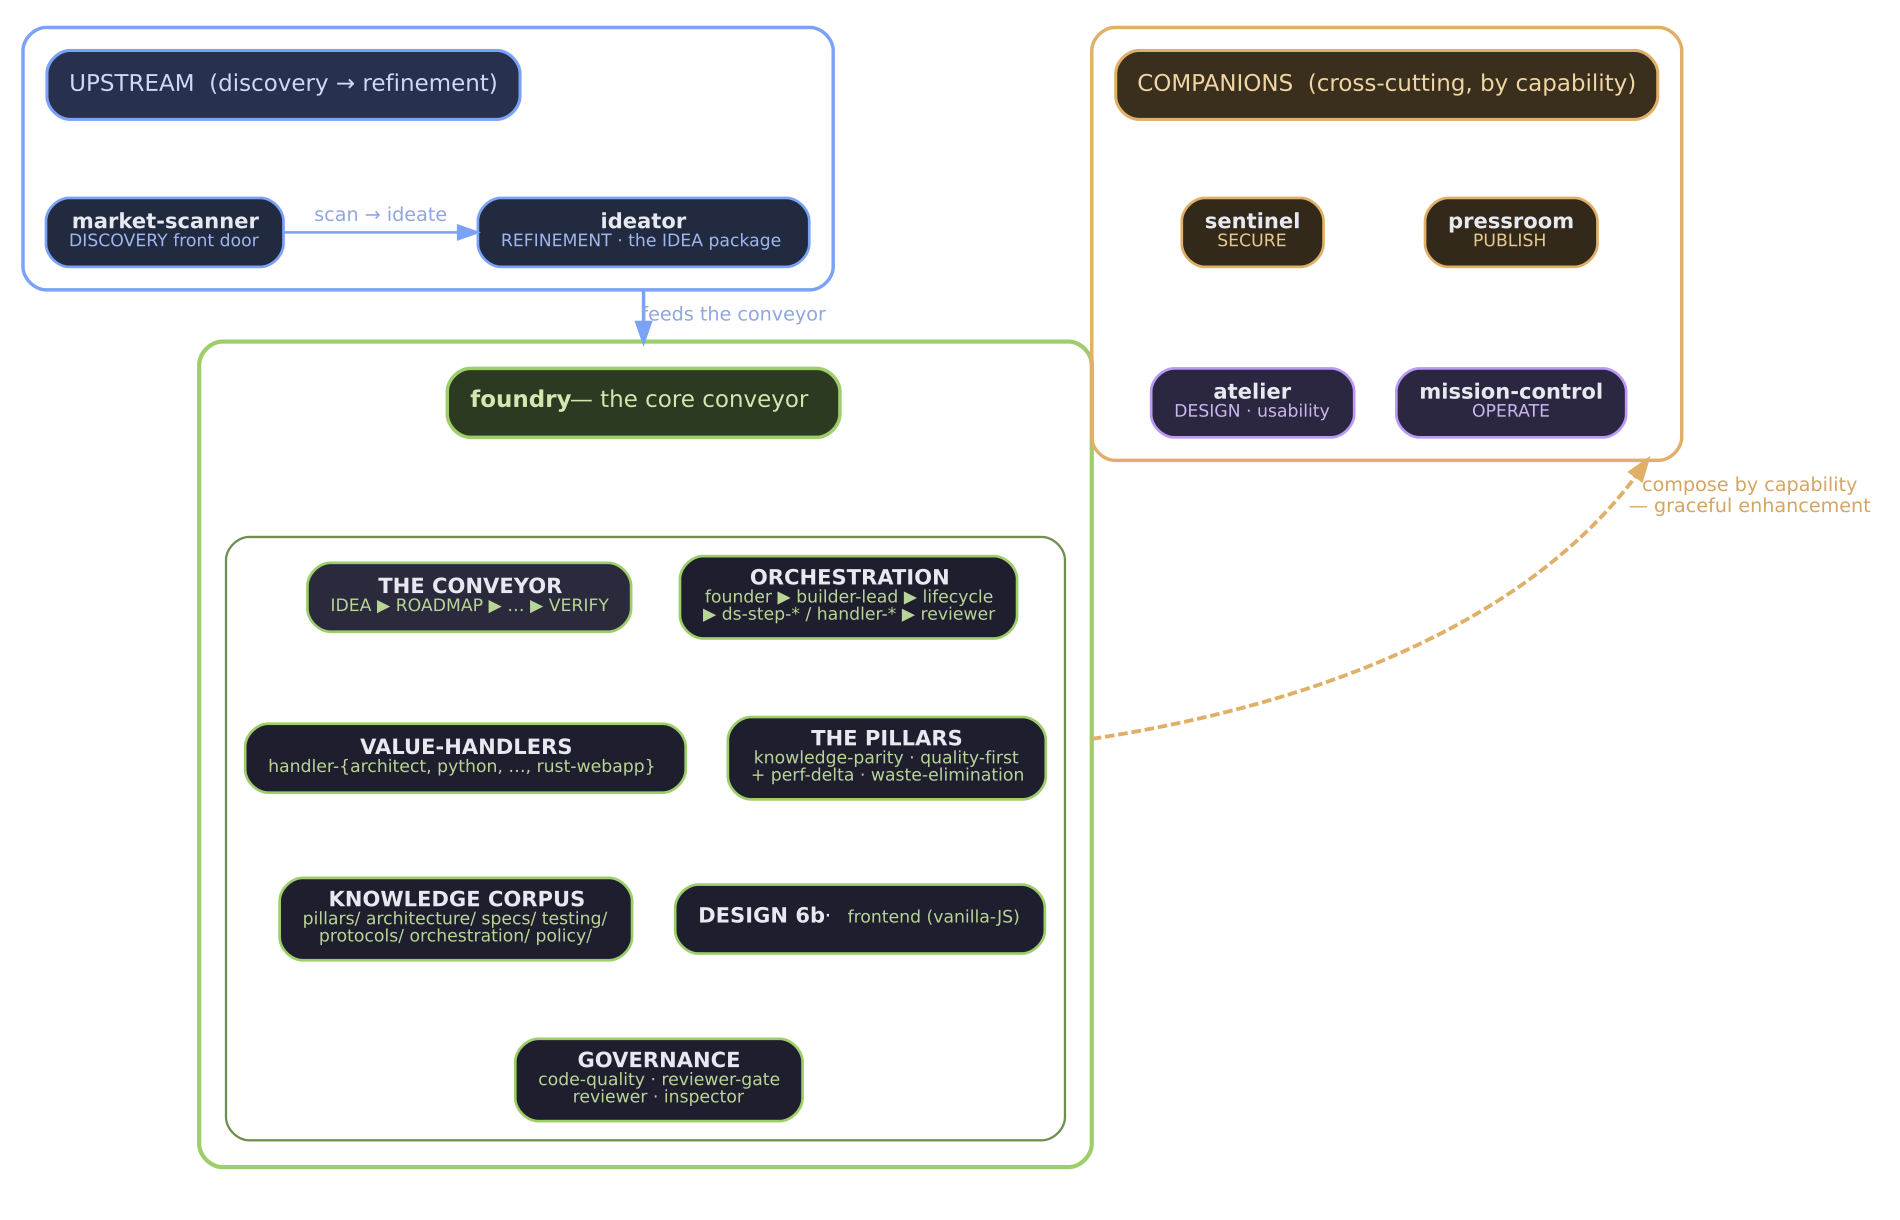
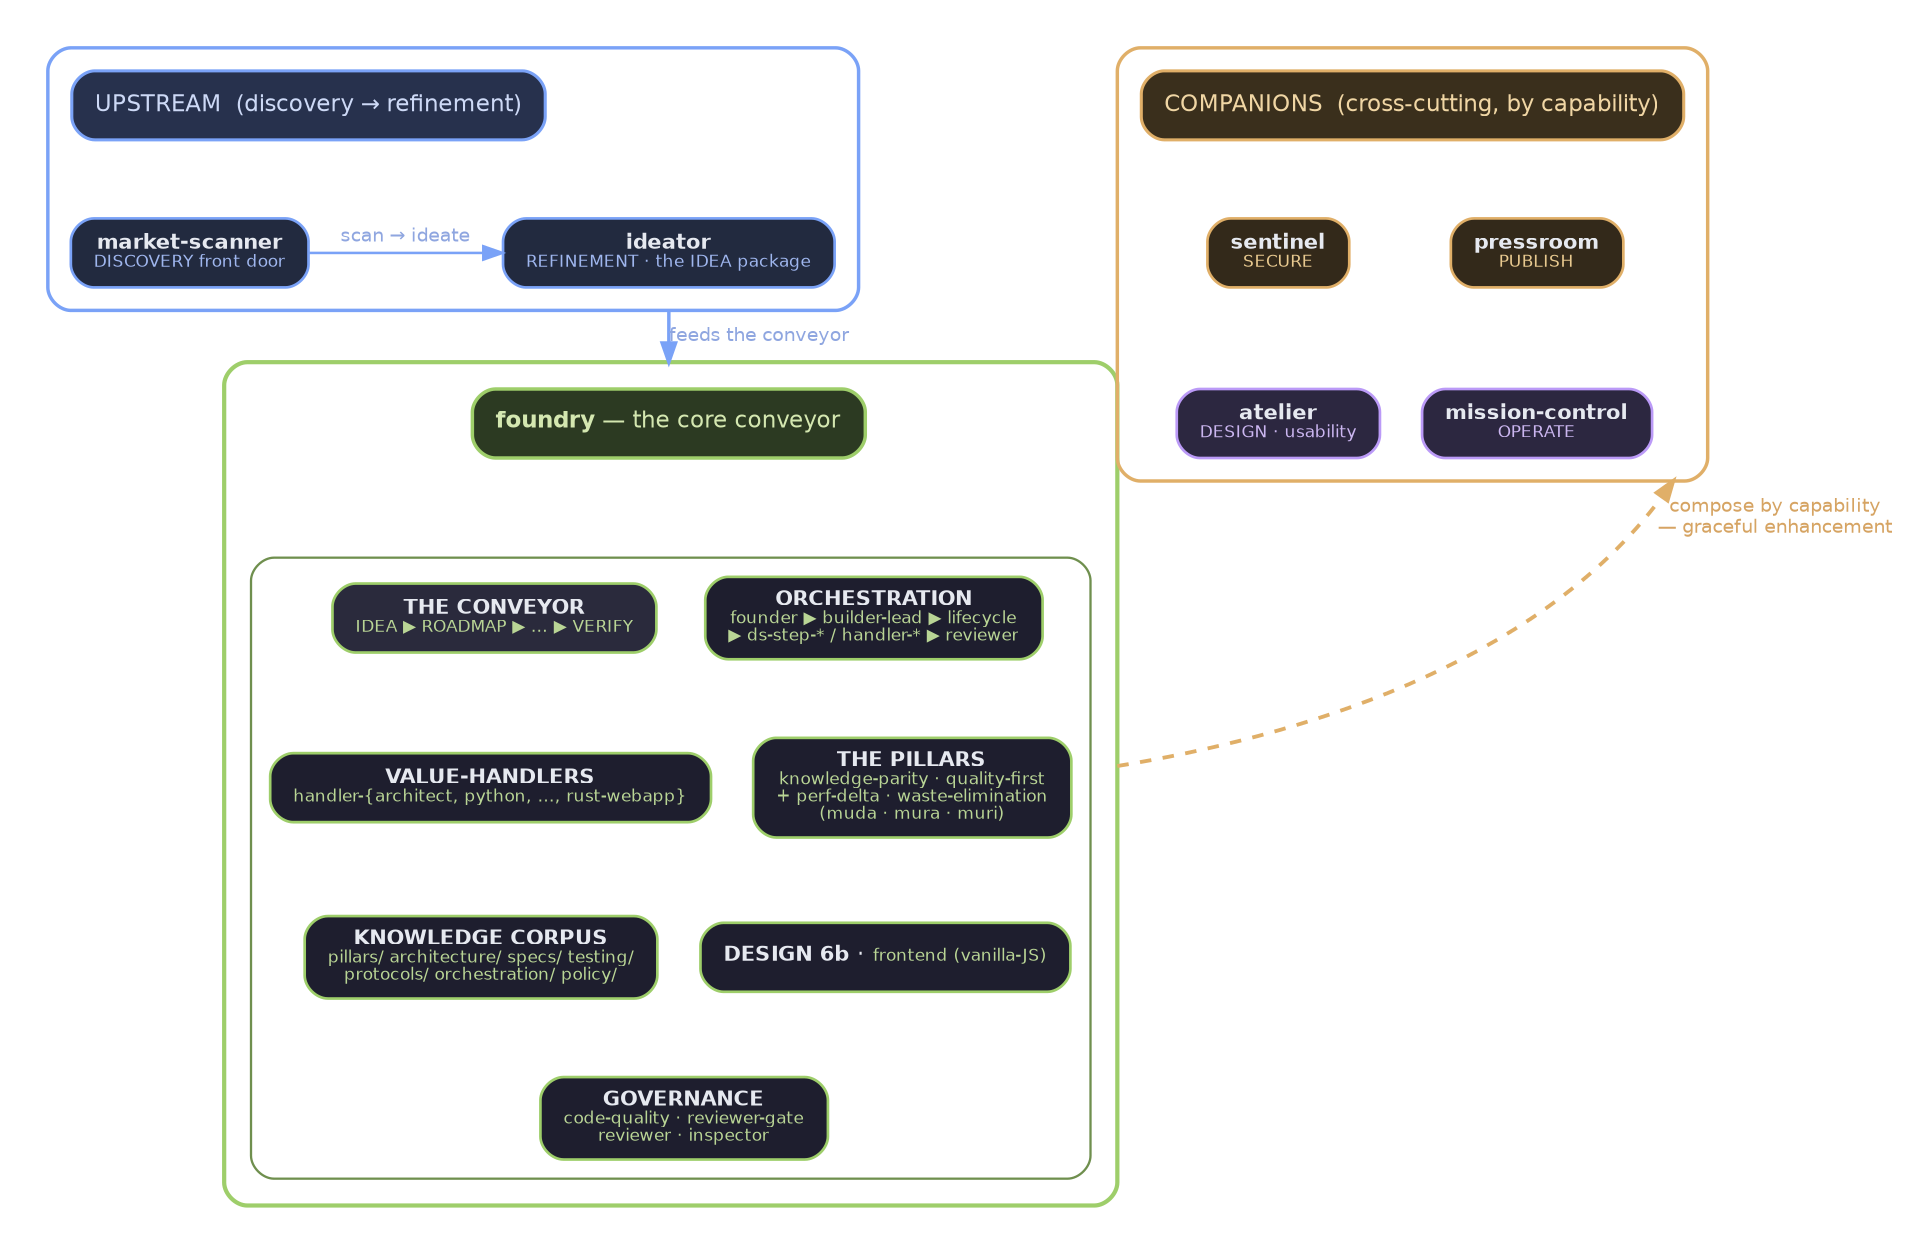
docs(kaizen): rebuild the knowledge illustrations for KAIZEN + muda·mura·muri
The covenant/lean prose shipped in the prior commit but the diagrams still baked
the old framing — 03-three-pillars.svg literally rendered "(no alias)" under
Waste-elimination. Update the diagram sources and re-render them entirely.

- 03-three-pillars: "(no alias)" → "alias: muda · mura · muri"; essence enriched
  with the three Ms (waste/unevenness/overburden). Re-rendered (rsvg-convert -z 2,
  1640×1200, transparent). first-principles.md alt-text synced.
- 01-domain-tree: pillars cell gains "(muda · mura · muri)". Regenerated .svg + .png
  via graphviz (transparent). glossary.md alt-text synced.
- NEW 05-kaizen-covenant: a dedicated illustration of the covenant — the
  halve-the-distance-to-perfection staircase (prime law) + the PDCA engine +
  a footer of the kaizen principles and the three losses (muda·mura·muri).
  Embedded in first-principles.md §4 (the only principle previously without a
  diagram). Authored in the house dark-mode/transparent style; rendered at 2×.

No diagram named "SOLID"/"covenant", so there was nothing to rename in the art —
only the lean alias to surface and the new covenant illustration to add. The
kaizen-covenant.md replication fragment is left imageless on purpose (it travels
into user projects with bare, non-resolving paths).

TESTING
- magick identify: 03=1640×1200, 01=1926×1253, 05=1800×1200, all with alpha.
- bash scripts/verify-prereqs.sh → all checks PASS, incl. link-resolution (the new
[…]

diff --git a/plugins/foundry/knowledge/first-principles.md b/plugins/foundry/knowledge/first-principles.md
@@ -38,7 +38,7 @@ The pillars govern the behaviour of **every** element. The user's phrasings are 
 > loading.* It is the hard design rule that rides the whole carriage alongside the pillars.
 > **Home:** [`token-efficiency.md`](token-efficiency.md). · **Binding:** progressive disclosure.
 
-![Three pillars govern every element — Knowledge-parity (understand the ask fully before acting; recurring questions become written answers, never asked twice), Quality-first (built in, not inspected in; engineered across the assurance chain and a perf-delta gate; a gate is never weakened to make progress), and Waste-elimination (remove waste in all seven forms, including rediscovery — a bug caught in development is far cheaper than one in production) — three columns standing under one overarching lintel: token-efficiency (thin skills/fat references · define-once/reference-many · station-scoped loading).](diagrams/03-three-pillars.png)
+![Three pillars govern every element — Knowledge-parity (understand the ask fully before acting; recurring questions become written answers, never asked twice), Quality-first (built in, not inspected in; engineered across the assurance chain and a perf-delta gate; a gate is never weakened to make progress), and Waste-elimination (alias: muda · mura · muri — waste, unevenness, overburden; remove waste in all seven forms, including rediscovery — a bug caught in development is far cheaper than one in production) — three columns standing under one overarching lintel: token-efficiency (thin skills/fat references · define-once/reference-many · station-scoped loading).](diagrams/03-three-pillars.png)
 
 ---
 
@@ -93,6 +93,8 @@ more than one thing), it **cleaves** into smaller, single-purpose elements and r
 shipping the improvement to all users via PR (§6). · **Aliases:** the covenant; halve-the-distance;
 self-cleaving; kaizen. · **Home:**
 [`architecture/kaizen-covenant.md`](architecture/kaizen-covenant.md).
+
+![The KAIZEN covenant in two linked motifs. LEFT — the prime law "halve the distance to perfection": a row of rising versions (v1…v5), each closing at least half of the remaining gap up to a dashed perfection line it never quite reaches, because the duty is the rate of approach, not the arrival; a version no closer than the last has not honoured the covenant. RIGHT — the PDCA engine that drives each pass (Plan ▸ Do ▸ Check ▸ Act, clockwise): change against a measured hypothesis, not a hunch — standardise the win, or revert and try again. A footer names the kaizen principles (standardize-then-improve · small reversible steps · gemba/go-and-see · fix-upstream-once · self-cleaving) and the duty to eliminate the three losses: muda (waste), mura (unevenness), and muri (overburden).](diagrams/05-kaizen-covenant.png)
 
 ---
 

diff --git a/plugins/foundry/knowledge/glossary.md b/plugins/foundry/knowledge/glossary.md
@@ -12,7 +12,7 @@ understand the *system*; read here to disambiguate a *name*.
 
 ## 1. The conceptual-domain tree
 
-![Conceptual-domain map of the idea-to-production marketplace, grouped by role: UPSTREAM — market-scanner (DISCOVERY front door) → ideator (REFINEMENT, the IDEA package); CORE — foundry (the value-flow conveyor) holding its substructure: THE CONVEYOR (IDEA▶ROADMAP▶…▶DEPLOY▶VERIFY), THE ORCHESTRATION HIERARCHY (founder▶builder-lead▶lifecycle-orchestrator▶ds-step-*/handler-*▶reviewer), THE VALUE-HANDLERS (handler-architect/python/…/rust-webapp), THE PILLARS (knowledge-parity · quality-first+perf-delta · waste-elimination), THE KNOWLEDGE CORPUS (pillars/architecture/specs/testing/protocols/orchestration/policy), DESIGN station 6b (the frontend design system), and GOVERNANCE (code-quality, reviewer-gate, reviewer, inspector); COMPANIONS (cross-cutting, composing into the whole of foundry by capability) — sentinel (SECURE), pressroom (PUBLISH), atelier (DESIGN/usability), mission-control (OPERATE).](diagrams/01-domain-tree.png)
+![Conceptual-domain map of the idea-to-production marketplace, grouped by role: UPSTREAM — market-scanner (DISCOVERY front door) → ideator (REFINEMENT, the IDEA package); CORE — foundry (the value-flow conveyor) holding its substructure: THE CONVEYOR (IDEA▶ROADMAP▶…▶DEPLOY▶VERIFY), THE ORCHESTRATION HIERARCHY (founder▶builder-lead▶lifecycle-orchestrator▶ds-step-*/handler-*▶reviewer), THE VALUE-HANDLERS (handler-architect/python/…/rust-webapp), THE PILLARS (knowledge-parity · quality-first+perf-delta · waste-elimination — muda·mura·muri), THE KNOWLEDGE CORPUS (pillars/architecture/specs/testing/protocols/orchestration/policy), DESIGN station 6b (the frontend design system), and GOVERNANCE (code-quality, reviewer-gate, reviewer, inspector); COMPANIONS (cross-cutting, composing into the whole of foundry by capability) — sentinel (SECURE), pressroom (PUBLISH), atelier (DESIGN/usability), mission-control (OPERATE).](diagrams/01-domain-tree.png)
 
 The companions are **cross-cutting**: foundry/ideator use them *by capability* when installed
 (graceful enhancement) and degrade to markdown when they are not. See `../VALUE_FLOW.md §4`. The full arc